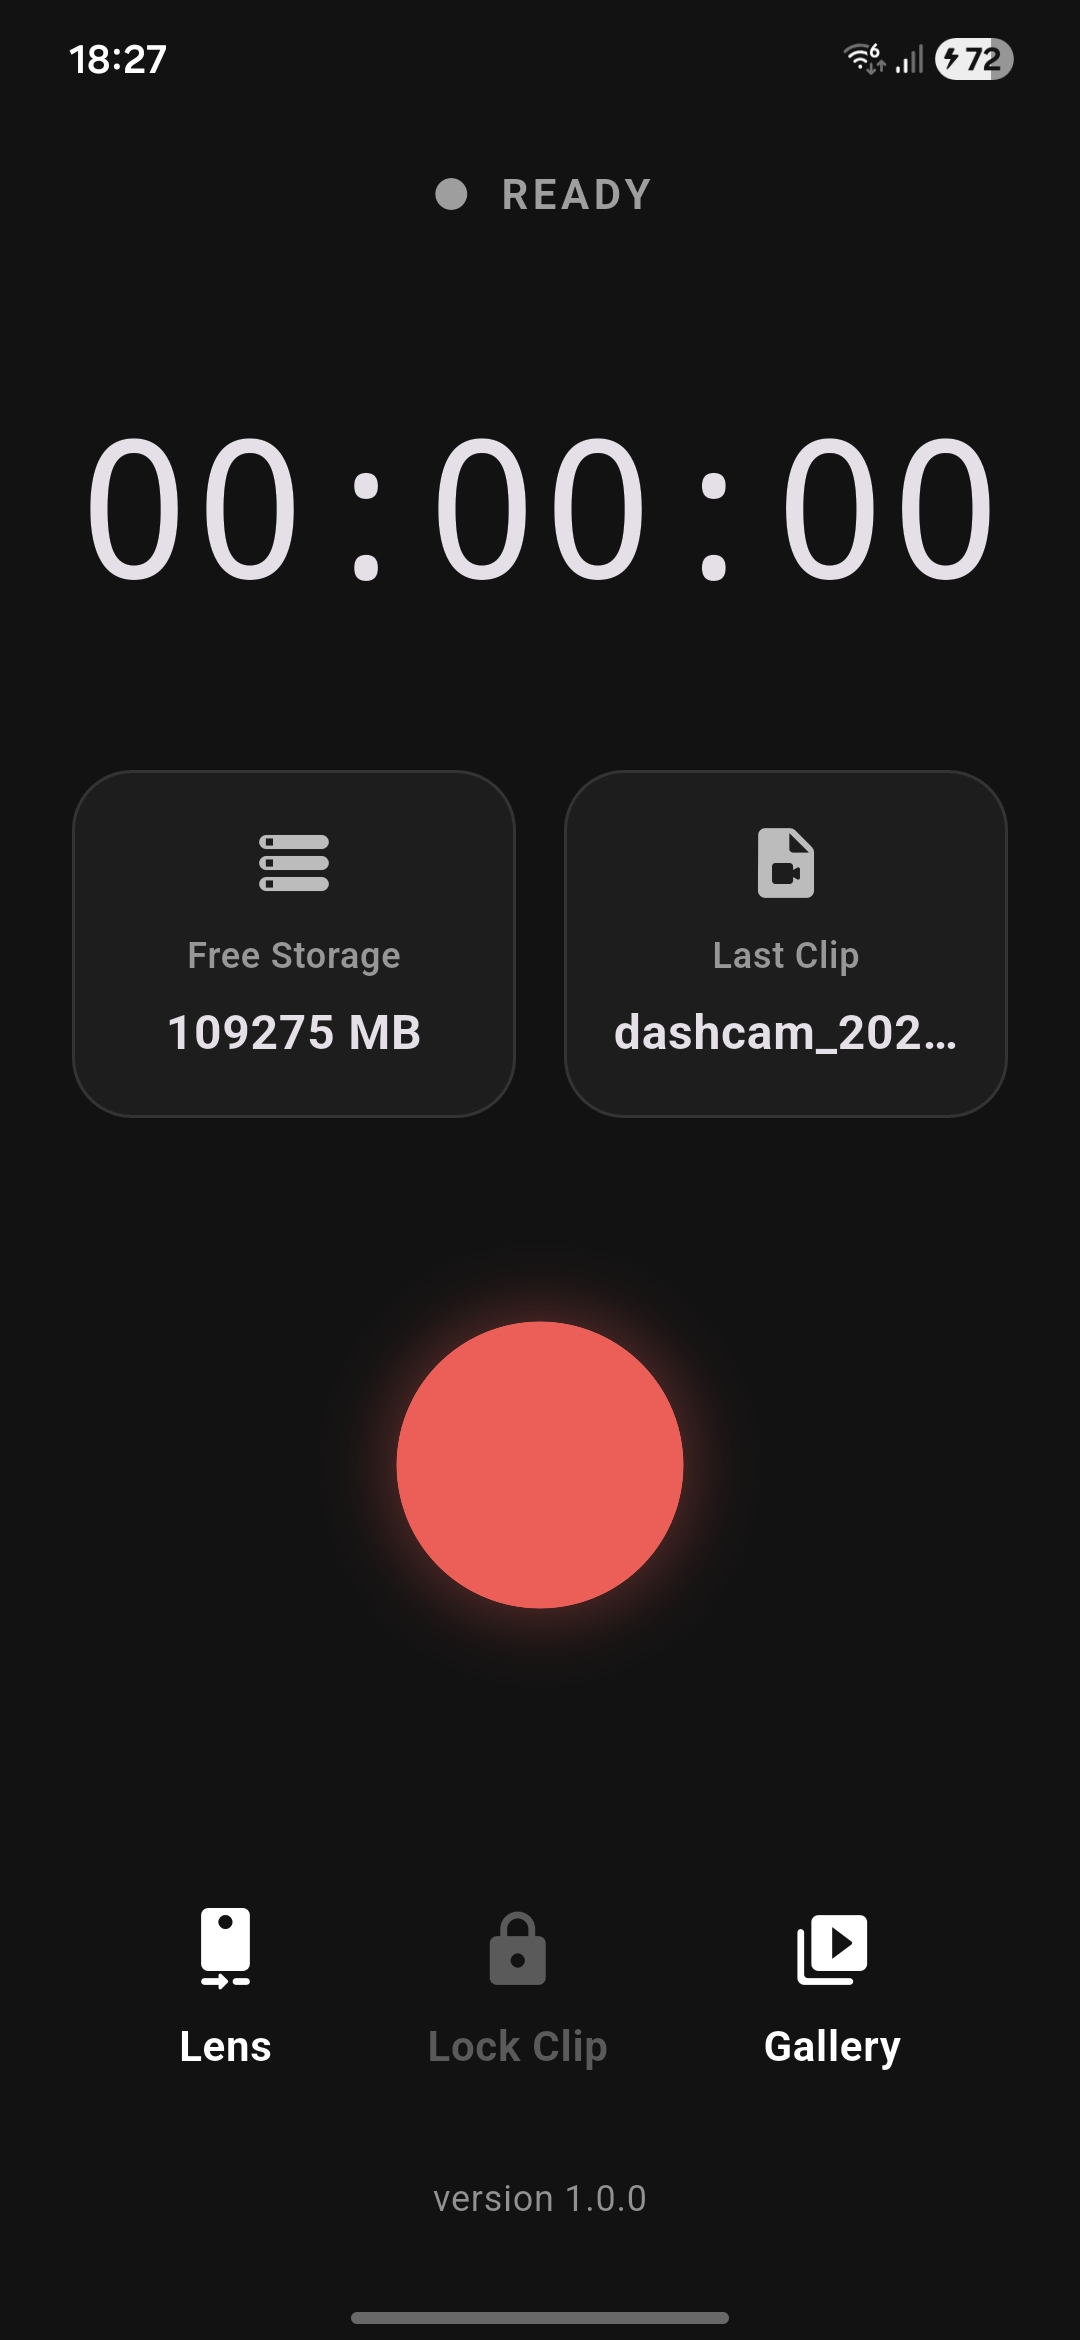
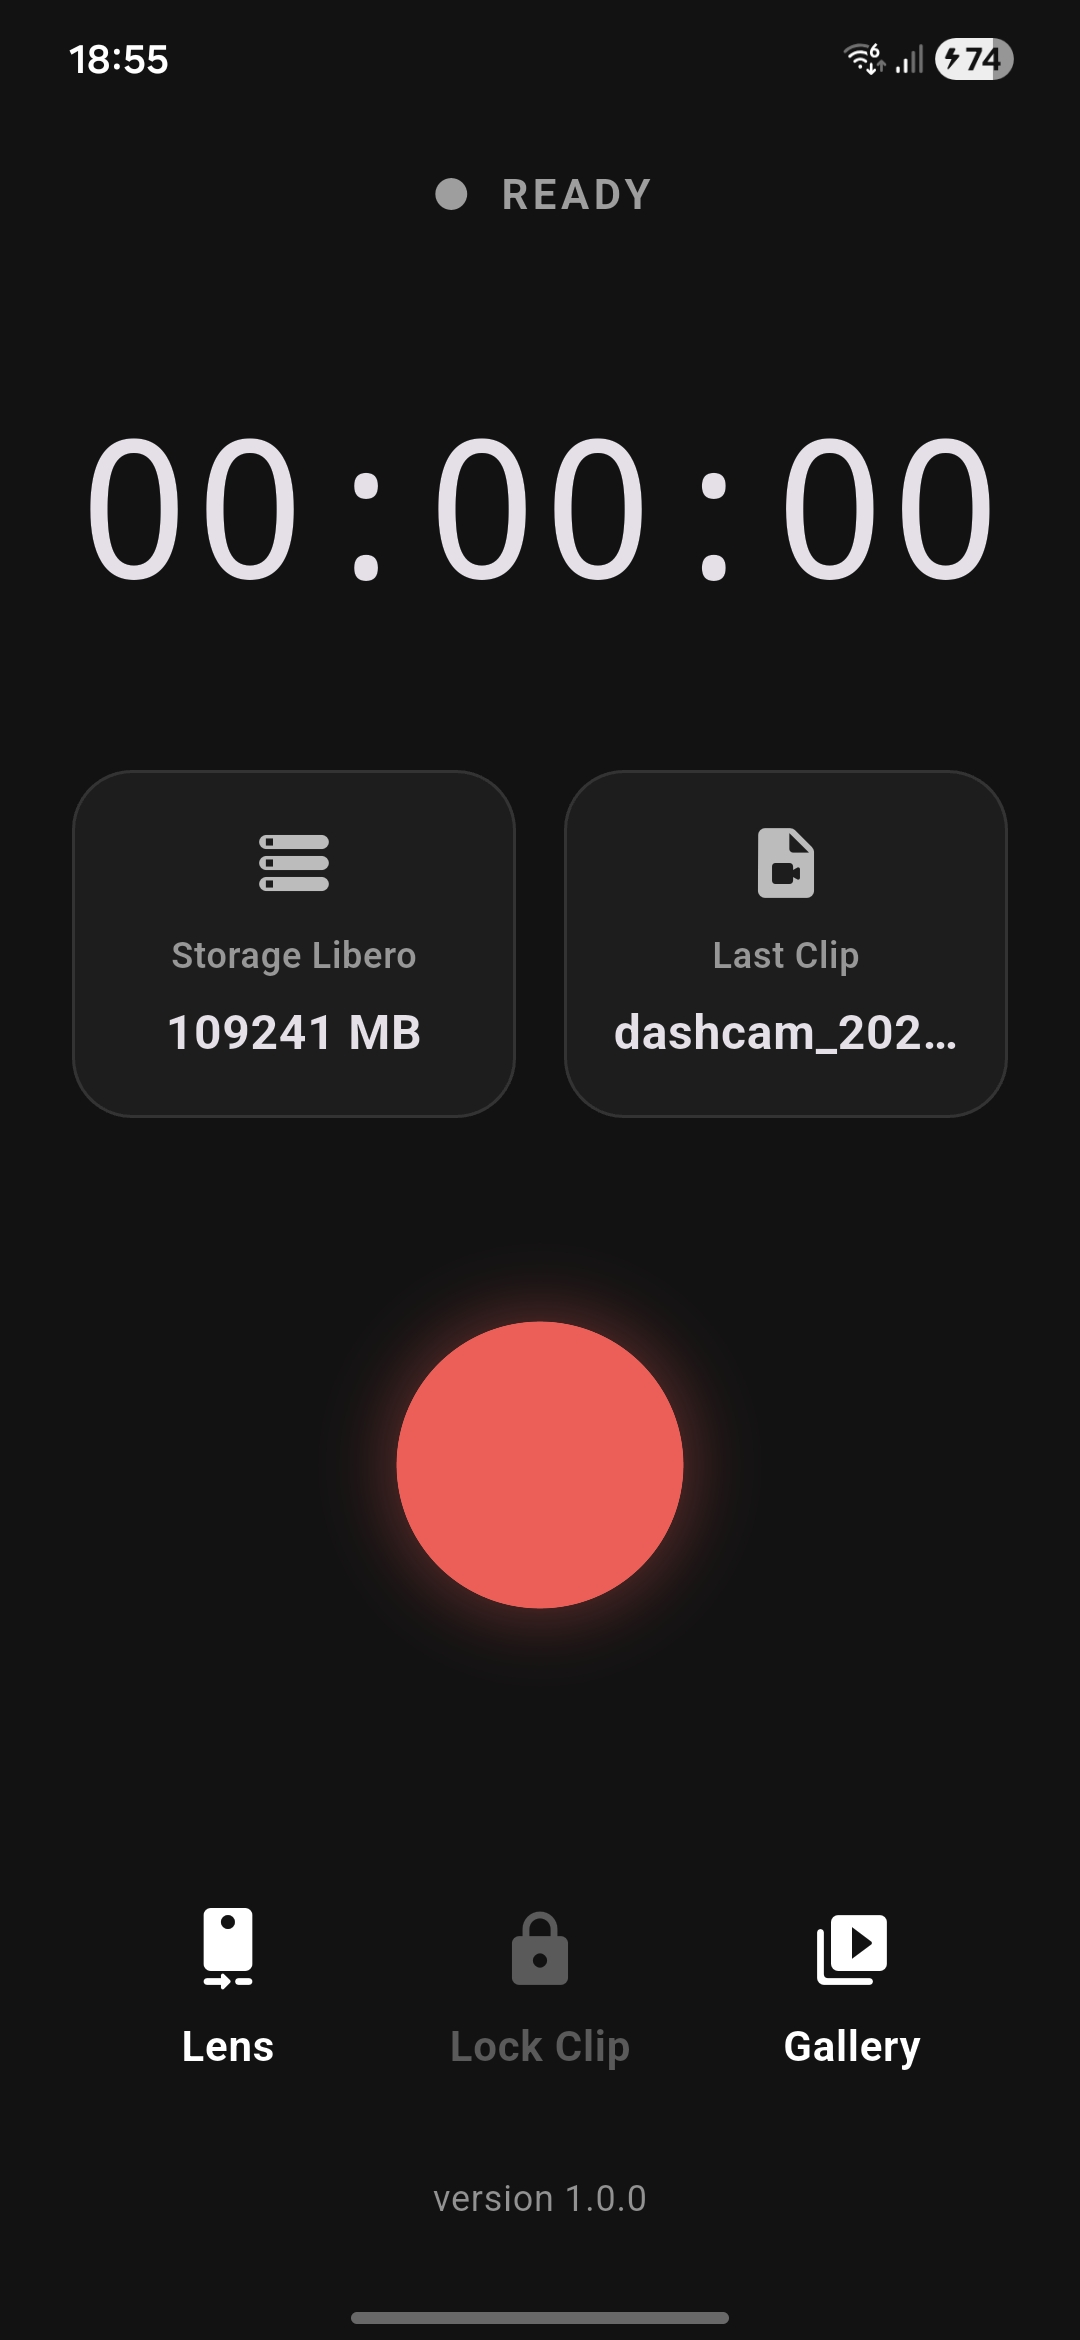
fix align

diff --git a/app/lib/main.dart b/app/lib/main.dart
@@ -39,12 +39,12 @@ class DashcamStatus {
     return DashcamStatus(
       isRecording: map['isRecording'] as bool? ?? false, elapsedSeconds: map['elapsedSeconds'] as int? ?? 0,
       storageUsedMb: map['storageUsedMb'] as int? ?? 0, freeStorageMb: map['freeStorageMb'] as int? ?? 0,
-      lastSegment: map['lastSegment'] as String? ?? '-' , lastSegmentLocked: map['lastSegmentLocked'] as bool? ?? false,
-      warning: map['warning'] as String? ?? '' , isFrontCamera: map['isFrontCamera'] as bool? ?? false,
+      lastSegment: map['lastSegment'] as String? ?? '-', lastSegmentLocked: map['lastSegmentLocked'] as bool? ?? false,
+      warning: map['warning'] as String? ?? '', isFrontCamera: map['isFrontCamera'] as bool? ?? false,
     );
   }
 
-  static const idle = DashcamStatus(isRecording: false, elapsedSeconds: 0, storageUsedMb: 0, freeStorageMb: 0, lastSegment: '-' , lastSegmentLocked: false, warning: '' , isFrontCamera: false);
+  static const idle = DashcamStatus(isRecording: false, elapsedSeconds: 0, storageUsedMb: 0, freeStorageMb: 0, lastSegment: '-', lastSegmentLocked: false, warning: '', isFrontCamera: false);
 }
 
 class DashcamPlatformBridge {
@@ -71,36 +71,20 @@ class _DashcamHomePageState extends State<DashcamHomePage> {
   bool _busy = false;
   String _appVersion = 'Caricamento...';
   bool _isFrontCamera = false;
-  String _persistedLastSegment = '-';
-  bool _persistedLastSegmentLocked = false;
 
   @override
   void initState() {
     super.initState();
     _loadInitData();
-    _statusSub = DashcamPlatformBridge.watchStatus().listen((s) async { 
-      setState(() { _status = s; _error = ''; }); 
-      if (s.lastSegment != '-') {
-        if (s.lastSegment != _persistedLastSegment || s.lastSegmentLocked != _persistedLastSegmentLocked) {
-          _persistedLastSegment = s.lastSegment;
-          _persistedLastSegmentLocked = s.lastSegmentLocked;
-          final prefs = await SharedPreferences.getInstance();
-          await prefs.setString('lastSegment', s.lastSegment);
-          await prefs.setBool('lastSegmentLocked', s.lastSegmentLocked);
-          if (mounted) setState(() {});
-        }
-      }
-    }, onError: (e) => setState(() => _error = 'Error: $e'));
+    _statusSub = DashcamPlatformBridge.watchStatus().listen((s) => setState(() { _status = s; _error = ''; }), onError: (e) => setState(() => _error = 'Error: $e'));
   }
 
   Future<void> _loadInitData() async {
     final prefs = await SharedPreferences.getInstance();
     _isFrontCamera = prefs.getBool('isFrontCamera') ?? false;
-    _persistedLastSegment = prefs.getString('lastSegment') ?? '-';
-    _persistedLastSegmentLocked = prefs.getBool('lastSegmentLocked') ?? false;
     await DashcamPlatformBridge.setCameraLens(_isFrontCamera);
     final info = await PackageInfo.fromPlatform();
-    setState(() => _appVersion = 'version ${info.version}');
+    setState(() => _appVersion = 'versione ${info.version}');
   }
   
   Future<void> _toggleCamera() async {
@@ -189,9 +173,9 @@ class _DashcamHomePageState extends State<DashcamHomePage> {
               const SizedBox(height: 40),
               Row(
                 children: [
-                   _buildStatCard('Free Storage', '${_status.freeStorageMb} MB', Icons.storage_rounded),
+                   _buildStatCard('Storage Libero', '${_status.freeStorageMb} MB', Icons.storage_rounded),
                   const SizedBox(width: 16),
-                  _buildStatCard('Last Clip', (_status.lastSegment == '-' ? _persistedLastSegment : _status.lastSegment) == '-' ? 'None' : (_status.lastSegment == '-' ? _persistedLastSegment : _status.lastSegment), Icons.video_file_rounded, trailing: (_status.lastSegment == '-' ? _persistedLastSegmentLocked : _status.lastSegmentLocked) ? const Icon(Icons.shield, color: Colors.orange, size: 16) : null),
+                  _buildStatCard('Last Clip', _status.lastSegment == '-' ? 'None' : _status.lastSegment, Icons.video_file_rounded, trailing: _status.lastSegmentLocked ? const Icon(Icons.shield, color: Colors.orange, size: 16) : null),
                 ],
               ),
               if (_status.warning.isNotEmpty) ...[
@@ -216,11 +200,11 @@ class _DashcamHomePageState extends State<DashcamHomePage> {
               if (_error.isNotEmpty) Padding(padding: const EdgeInsets.only(bottom: 16.0), child: Text(_error, textAlign: TextAlign.center, style: const TextStyle(color: Colors.redAccent))),
               const Spacer(),
               Row(
-                mainAxisAlignment: MainAxisAlignment.spaceEvenly,
+                mainAxisAlignment: MainAxisAlignment.center,
                 children: [
-                  Material(color: Colors.transparent, child: InkWell(borderRadius: BorderRadius.circular(16), onTap: () => _toggleCamera(), child: Padding(padding: const EdgeInsets.all(16.0), child: Column(children: [Icon(_isFrontCamera ? Icons.camera_front_rounded : Icons.camera_rear_rounded, color: isRec ? Colors.white30 : Colors.white, size: 28), const SizedBox(height: 8), Text('Lens', style: TextStyle(color: isRec ? Colors.white30 : Colors.white, fontWeight: FontWeight.bold))])))),
-                  Material(color: Colors.transparent, child: InkWell(borderRadius: BorderRadius.circular(16), onTap: isRec ? _lockIncident : null, child: Padding(padding: const EdgeInsets.all(16.0), child: Column(children: [Icon(Icons.lock_rounded, color: isRec ? Colors.white : Colors.white30, size: 28), const SizedBox(height: 8), Text('Lock Clip', style: TextStyle(color: isRec ? Colors.white : Colors.white30, fontWeight: FontWeight.bold))])))),
-                  Material(color: Colors.transparent, child: InkWell(borderRadius: BorderRadius.circular(16), onTap: () async { try { await DashcamPlatformBridge.openVideoFolder(); } catch(e) { if (context.mounted) ScaffoldMessenger.of(context).showSnackBar(const SnackBar(content: Text('Impossibile aprire la galleria videos'))); } }, child: const Padding(padding: EdgeInsets.all(16.0), child: Column(children: [Icon(Icons.video_library_rounded, color: Colors.white, size: 28), SizedBox(height: 8), Text('Gallery', style: TextStyle(color: Colors.white, fontWeight: FontWeight.bold))])))),
+                  Expanded(child: Material(color: Colors.transparent, child: InkWell(borderRadius: BorderRadius.circular(16), onTap: () => _toggleCamera(), child: Padding(padding: const EdgeInsets.all(16.0), child: Column(mainAxisSize: MainAxisSize.min, children: [Icon(_isFrontCamera ? Icons.camera_front_rounded : Icons.camera_rear_rounded, color: isRec ? Colors.white30 : Colors.white, size: 28), const SizedBox(height: 8), Text('Lens', style: TextStyle(color: isRec ? Colors.white30 : Colors.white, fontWeight: FontWeight.bold))]))))),
+                  Expanded(child: Material(color: Colors.transparent, child: InkWell(borderRadius: BorderRadius.circular(16), onTap: isRec ? _lockIncident : null, child: Padding(padding: const EdgeInsets.all(16.0), child: Column(mainAxisSize: MainAxisSize.min, children: [Icon(Icons.lock_rounded, color: isRec ? Colors.white : Colors.white30, size: 28), const SizedBox(height: 8), Text('Lock Clip', style: TextStyle(color: isRec ? Colors.white : Colors.white30, fontWeight: FontWeight.bold))]))))),
+                  Expanded(child: Material(color: Colors.transparent, child: InkWell(borderRadius: BorderRadius.circular(16), onTap: () async { try { await DashcamPlatformBridge.openVideoFolder(); } catch(e) { if (context.mounted) ScaffoldMessenger.of(context).showSnackBar(const SnackBar(content: Text('Impossibile aprire la galleria videos'))); } }, child: const Padding(padding: EdgeInsets.all(16.0), child: Column(mainAxisSize: MainAxisSize.min, children: [Icon(Icons.video_library_rounded, color: Colors.white, size: 28), SizedBox(height: 8), Text('Gallery', style: TextStyle(color: Colors.white, fontWeight: FontWeight.bold))]))))),
                 ],
               ),
               const SizedBox(height: 16),
